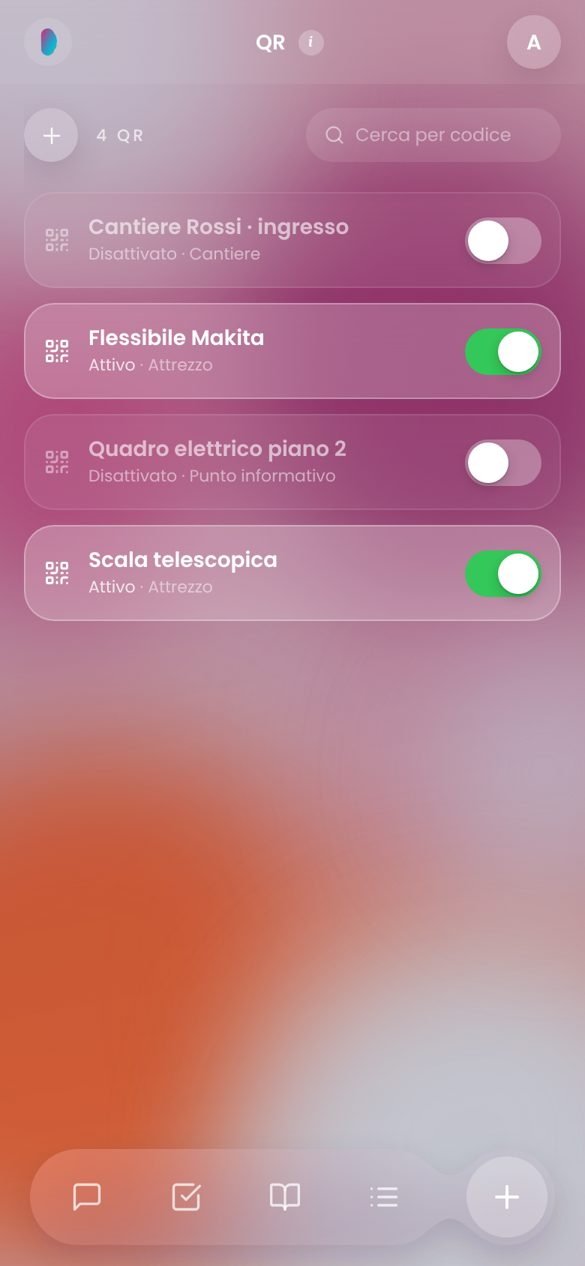
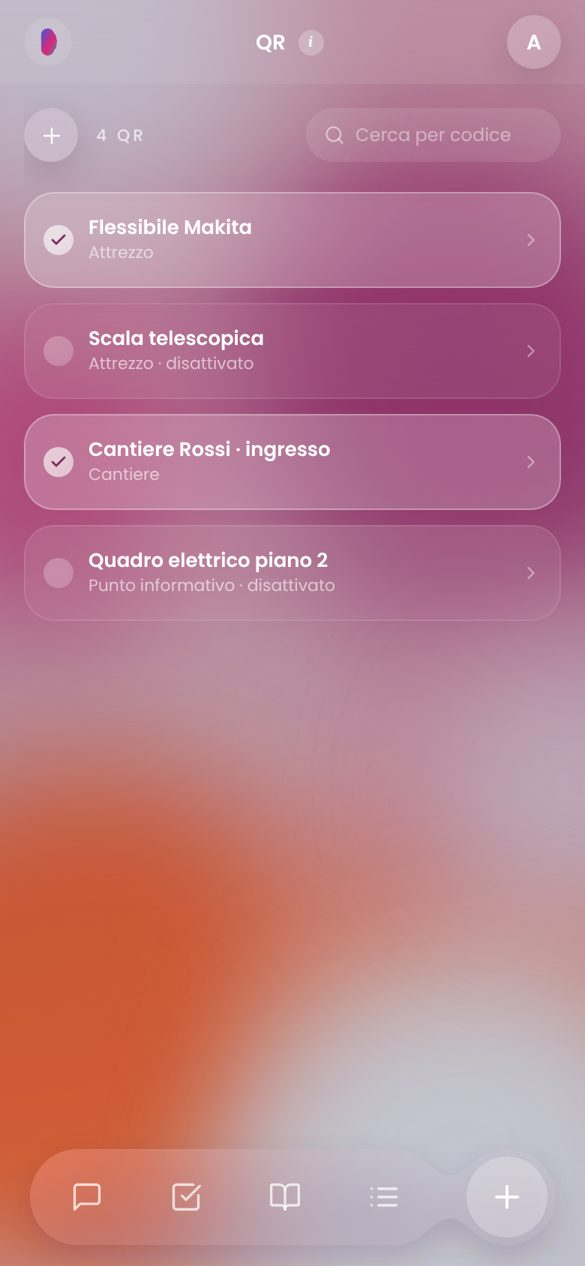
QR: attivo / disattivato con il pallino delle Azioni, nell'elenco e nel dettaglio
- Nuovo componente ActiveDot (il pallino delle liste), usato da Azioni e QR.
- Elenco QR come le Azioni: il pallino a sinistra della riga (spunta = attivo) lo attiva o
  disattiva; i disattivati scuri con "disattivato"; il resto della riga apre il QR.
- Dettaglio: al posto dell'interruttore il pallino, in un cerchio come gli altri tasti
  (tutto il cerchio è toccabile).
- Guida, FRONTEND.md e schermate aggiornate.

Claude-Session: https://claude.ai/code/session_01VfbXjVrWkHdaUBWCLnfX7C

Changed region(s): [[0.0308, 0.154, 0.9846, 0.4929], [0.0615, 0.0, 0.0923, 0.0616]]

diff --git a/frontend/src/pages/QrPage.jsx b/frontend/src/pages/QrPage.jsx
@@ -6,7 +6,7 @@ import { api, API } from "@/lib/api";
 import { useAuth } from "@/auth/AuthContext";
 import { phonePosition } from "@/pages/QrScanPage";
 import { Field, Input, Select, PRIMARY, SECONDARY, GroupTitle } from "@/components/FormFields";
-import IosSwitch from "@/components/IosSwitch";
+import ActiveDot from "@/components/ActiveDot";
 import GlassBottomSheet from "@/components/GlassBottomSheet";
 import { StatTiles, StatTile } from "@/components/StatTiles";
 
@@ -34,26 +34,29 @@ const CHANGED = { tool_item_id: "attrezzo", ar: "realtà aumentata", place: "luo
 // bottom bar under the finger and swallow the tap (see "Crea QR").
 const keepFocus = (e) => e.preventDefault();
 
-// a QR in the list: one row, with its switch on the right - on, the row lit and "Attivo"; off, dimmed and "Disattivato".
-// The switch turns it on or off from here; a tap on the rest of the row opens it.
+// on / off, as in Azioni: the lists' dot, lit with the check when the QR is active
+const QrDot = ({ title, ...p }) => (
+  <ActiveDot {...p} onTitle="Attivo: tocca per disattivarlo" offTitle="Disattivato: tocca per riattivarlo"
+    onLabel={`Disattiva ${title || "il QR"}`} offLabel={`Riattiva ${title || "il QR"}`} />
+);
+
+// a QR in the list, as an action of Azioni: the dot (active / off) on the left, the name and its kind; the active
+// ones lit, the turned-off ones dim; a tap on the row opens it
 function QrTile({ q, onOpen, onToggle }) {
   const [busy, setBusy] = useState(false);
   const toggle = async (on) => { setBusy(true); try { await onToggle(on); } finally { setBusy(false); } };
   return (
-    <div data-testid="qr-tile" data-active={q.active ? "true" : "false"}
-      className={`w-full rounded-[20px] pl-3 pr-3 h-[64px] flex items-center gap-3 backdrop-blur-xl transition-colors ${q.active ? "bg-white/[0.22] border border-white/30" : "bg-white/[0.07] border border-white/10"}`}>
-      <button type="button" onClick={onOpen} className="flex-1 min-w-0 h-full flex items-center gap-3 text-left" aria-label={`Apri ${q.title}`}>
-        <QrCode size={18} className={`shrink-0 ${q.active ? "text-white" : "text-white/45"}`} />
-        <span className="flex-1 min-w-0">
-          <span className={`block text-[14px] font-semibold leading-tight truncate ${q.active ? "text-white" : "text-white/60"}`} data-testid="qr-tile-title">{q.title}</span>
-          <span className="block text-[11px] leading-tight mt-0.5 truncate">
-            <span className={q.active ? "text-white/80" : "text-white/50"} data-testid="qr-tile-state">{q.active ? "Attivo" : "Disattivato"}</span>
-            <span className="text-white/50"> · {q.kind_label}</span>
-          </span>
+    <div role="button" tabIndex={0} data-testid="qr-tile" data-active={q.active ? "true" : "false"} onClick={onOpen}
+      onKeyDown={(e) => { if (e.key === "Enter") onOpen(); }}
+      className={`w-full text-left rounded-[20px] px-3 h-[64px] flex items-center gap-2.5 backdrop-blur-xl transition-colors cursor-pointer ${q.active ? "bg-white/[0.22] border border-white/30" : "bg-white/[0.07] border border-white/10"}`}>
+      <QrDot on={!!q.active} busy={busy} onToggle={toggle} title={q.title} testid="qr-tile-switch" />
+      <span className="flex-1 min-w-0">
+        <span className="block text-[13px] font-semibold text-white leading-tight whitespace-nowrap overflow-hidden text-ellipsis" data-testid="qr-tile-title">{q.title}</span>
+        <span className="block text-[11px] text-white/60 leading-tight mt-0.5 whitespace-nowrap overflow-hidden text-ellipsis" data-testid="qr-tile-state">
+          {q.kind_label}{q.active ? "" : " · disattivato"}
         </span>
-      </button>
-      <IosSwitch checked={!!q.active} onChange={toggle} disabled={busy} testid="qr-tile-switch"
-        label={q.active ? `${q.title}: attivo, tocca per disattivarlo` : `${q.title}: disattivato, tocca per riattivarlo`} />
+      </span>
+      <ChevronRight size={14} className="shrink-0 text-white/45" />
     </div>
   );
 }
@@ -434,7 +437,10 @@ function QrDetail({ id, commesse, onChanged, onDeleted, onBack }) {
 
       {/* one row: on/off, print, download, share the link - and, apart, new code and delete */}
       <div className="mt-2 flex items-center justify-center gap-2.5" data-testid="qr-actions">
-        <IosSwitch checked={!!q.active} onChange={setActive} disabled={busy} label={q.active ? "Attivo: tocca per disattivarlo" : "Disattivato: tocca per riattivarlo"} testid="qr-toggle-active" />
+        <span className={`${ROUND} bg-white/15 cursor-pointer`} data-testid="qr-active" data-active={q.active ? "true" : "false"}
+          onClick={() => !busy && setActive(!q.active)}>
+          <QrDot on={!!q.active} busy={busy} onToggle={setActive} title={q.title} testid="qr-toggle-active" />
+        </span>
         <button type="button" onClick={() => setPrinting(true)} data-testid="qr-print" title="Stampa l'etichetta" aria-label="Stampa l'etichetta"
           className={`${ROUND} bg-white/15 text-white`}><Printer size={18} /></button>
         <a href={q.images.png} download={`QR-${q.code_label}.png`} data-testid="qr-download" title="Scarica il PNG" aria-label="Scarica il PNG"

diff --git a/frontend/src/pages/ActionsPage.jsx b/frontend/src/pages/ActionsPage.jsx
@@ -1,8 +1,9 @@
 import React, { useEffect, useState } from "react";
 import { useNavigate, useSearchParams } from "react-router-dom";
 import { toast } from "sonner";
-import { Repeat, Plus, Play, Trash2, List, BarChart3, Bell, CheckSquare, Send, Smartphone, Loader2, ChevronDown, ChevronRight, Newspaper, ArrowLeft, Check } from "lucide-react";
+import { Repeat, Plus, Play, Trash2, List, BarChart3, Bell, CheckSquare, Send, Smartphone, Loader2, ChevronDown, ChevronRight, Newspaper, ArrowLeft } from "lucide-react";
 import { api } from "@/lib/api";
+import SharedDot from "@/components/ActiveDot";
 
 const ACCENT = "#3E7C8C"; // same color as the "Azioni programmate" button in the chat
 
@@ -30,19 +31,10 @@ const renderTelegramText = (text) => String(text || "").split(/(\*[^*\n]+\*)/g).
 );
 
 // The lists' selection dot (Liste, Spesa...): here it turns the action on and off.
-function ActiveDot({ on, busy, onToggle, testid }) {
-  return (
-    <button type="button" data-testid={testid} disabled={busy} aria-pressed={!!on}
-      onClick={(e) => { e.stopPropagation(); onToggle(!on); }}
-      title={on ? "Attiva: tocca per metterla in pausa" : "In pausa: tocca per riattivarla"}
-      aria-label={on ? "Metti in pausa l'azione" : "Riattiva l'azione"}
-      className="h-8 w-8 -m-1.5 shrink-0 flex items-center justify-center disabled:opacity-60">
-      <span className={`h-5 w-5 rounded-full flex items-center justify-center backdrop-blur-md transition-colors ${on ? "bg-white/55 text-[#7A2A5C]" : "bg-white/20"}`}>
-        {on && <Check size={12} strokeWidth={2.8} />}
-      </span>
-    </button>
-  );
-}
+const ActiveDot = (p) => (
+  <SharedDot {...p} onTitle="Attiva: tocca per metterla in pausa" offTitle="In pausa: tocca per riattivarla"
+    onLabel="Metti in pausa l'azione" offLabel="Riattiva l'azione" />
+);
 
 // One action in the list: like a tile of Impostazioni, one per row - the dot (on / paused),
 // the title on one line and, in grey, when it repeats; tapping it opens its card.

diff --git a/frontend/src/components/ActiveDot.jsx b/frontend/src/components/ActiveDot.jsx
@@ -1,0 +1,17 @@
+import React from "react";
+import { Check } from "lucide-react";
+
+/* The lists' selection dot (Liste, Spesa...), used to turn something on and off: lit with the check when it is on,
+   a faint circle when it is off (Azioni: active / paused; QR: active / turned off). */
+export default function ActiveDot({ on, busy, onToggle, testid, onTitle, offTitle, onLabel, offLabel }) {
+  return (
+    <button type="button" data-testid={testid} disabled={busy} aria-pressed={!!on}
+      onClick={(e) => { e.stopPropagation(); onToggle(!on); }}
+      title={on ? onTitle : offTitle} aria-label={on ? onLabel : offLabel}
+      className="h-8 w-8 -m-1.5 shrink-0 flex items-center justify-center disabled:opacity-60">
+      <span className={`h-5 w-5 rounded-full flex items-center justify-center backdrop-blur-md transition-colors ${on ? "bg-white/55 text-[#7A2A5C]" : "bg-white/20"}`}>
+        {on && <Check size={12} strokeWidth={2.8} />}
+      </span>
+    </button>
+  );
+}

diff --git a/backend/help/mAIPAL-help.md b/backend/help/mAIPAL-help.md
@@ -517,8 +517,8 @@ Documenti è la tua **base di conoscenza**: tutto quello che hai caricato con Sa
 I **QR** sono etichette da attaccare in cantiere, su un attrezzo o in un punto (quadro elettrico, locale caldaia). Scansionandolo con il telefono si vedono le informazioni che l'amministratore ha scritto: solo chi è nella tua organizzazione (QR privato) oppure chiunque lo scansioni (QR pubblico).
 - **Chi li gestisce**: la sezione QR la vede solo l'amministratore. Gli altri del team aprono il QR scansionandolo.
 - **Crearne uno**: tocca **+**, dai un nome ("Cantiere Rossi · ingresso", "Trapano Hilti 2"), scegli il tipo (Cantiere, Attrezzo, Punto informativo, Altro), la commessa se c'è, il testo da mostrare (referente, accessi, avvisi) e i link utili (planimetrie, schede, cartella Drive).
-- **L'elenco dei QR**: una riga per QR, con sotto il nome **Attivo** o **Disattivato** e il tipo; quelli attivi sono chiari e in evidenza, quelli disattivati più scuri. L'**interruttore** a destra della riga lo attiva o disattiva subito, senza aprirlo; toccando il resto della riga si apre il QR.
-- **La pagina di un QR**: in alto la freccia per tornare e il **nome** del QR; sotto un riquadro con **solo il QR**. Sotto il QR, su una riga: l'**interruttore** (verde = attivo; spento = chi lo scansiona non vede niente finché non lo riaccendi), **stampa**, **scarica** (immagine PNG) e **condividi il link** (WhatsApp, mail…; dove il telefono non lo permette, il link viene copiato); un po' staccati, **genera un nuovo codice** (frecce) ed **elimina** (cestino; chiede conferma). Poi i numeri (**Scansioni**, **Foto e PDF**, **Modifiche**), l'ultima scansione, il **codice** stampato sotto l'etichetta e il tipo; poi **Contenuto**, **Foto e PDF** e **Storico** (chi ha preso l'attrezzo e le modifiche).
+- **L'elenco dei QR**: come le Azioni, una riga per QR con a sinistra il **pallino**: con la spunta è **attivo**, vuoto è **disattivato** (la riga è più scura e sotto il nome c'è scritto «disattivato»). Toccando il pallino lo attivi o disattivi subito, senza aprirlo; toccando il resto della riga si apre il QR.
+- **La pagina di un QR**: in alto la freccia per tornare e il **nome** del QR; sotto un riquadro con **solo il QR**. Sotto il QR, su una riga: il **pallino** come nelle Azioni (con la spunta = attivo; vuoto = disattivato: chi lo scansiona non vede niente finché non lo riattivi), **stampa**, **scarica** (immagine PNG) e **condividi il link** (WhatsApp, mail…; dove il telefono non lo permette, il link viene copiato); un po' staccati, **genera un nuovo codice** (frecce) ed **elimina** (cestino; chiede conferma). Poi i numeri (**Scansioni**, **Foto e PDF**, **Modifiche**), l'ultima scansione, il **codice** stampato sotto l'etichetta e il tipo; poi **Contenuto**, **Foto e PDF** e **Storico** (chi ha preso l'attrezzo e le modifiche).
 - **Cambiare il contenuto**: tocca **Modifica** accanto a «Contenuto»: il modulo si apre lì. L'etichetta stampata resta la stessa: chi la scansiona vede subito il testo nuovo. In **Modifiche** trovi chi ha cambiato cosa e il testo di prima.
 - **QR di un attrezzo**: scegli il tipo **Attrezzo**. Per gli artigiani c'è la lista **Attrezzatura** (in Liste, condivisa con il team, creata da sola: nome, marca e modello, matricola, note, chi ce l'ha e da quando): nel campo **Attrezzo** scegli quello della lista, oppure lascia **Nuovo** e lo aggiungo io alla lista con il nome del QR. Chi scansiona il QR vede se l'attrezzo è **Disponibile** o chi ce l'ha e da quando, e i pulsanti **Prendi** (o **Lo prendo io**, se ce l'ha un collega) e **Restituisci** (chi ce l'ha, oppure un amministratore per chiunque). La lista Attrezzatura si aggiorna da sola (**Ce l'ha**, **Dal**) e nello **Storico** del QR l'amministratore vede chi l'ha preso e restituito.
 - **Solo in un luogo**: in **Dove si apre** scegli **Solo in un luogo**, poi dal menu **Punto** scegli **La mia posizione adesso** (se sei lì), **Il cantiere della commessa** o **Un indirizzo**, e da **Entro** la distanza (50 m, 100 m, 250 m, 500 m, 1 km). Con l'icona accanto alle coordinate riprendi la posizione. Chi scansiona il QR deve trovarsi entro quella distanza: il telefono chiede la posizione e, se è troppo lontano, mostra a che distanza si trova. Vale anche per le foto e i PDF del QR e anche per i QR pubblici (a chi non è dell'organizzazione non viene mostrato il nome del luogo). Gli amministratori lo aprono ovunque, con un avviso. La posizione serve solo a controllare la distanza e non viene salvata (per chi è dell'organizzazione resta solo la distanza). Attenzione: la posizione la dà il telefono e si può falsificare, quindi è un filtro in più, non una serratura: non usarlo come unica protezione per dati riservati.
@@ -530,7 +530,7 @@ I **QR** sono etichette da attaccare in cantiere, su un attrezzo o in un punto (
   - **Solo organizzazione**: chi è nella tua organizzazione, dopo l'accesso a mAIPAL. Per tutti gli altri il QR "non è disponibile", come un codice sbagliato.
   - **Solo amministratori**: per esempio per codici riservati.
 - **Scansionare**: con la fotocamera del telefono. Si apre il **contenuto** del QR, da leggere: il nome, (per un attrezzo) chi ce l'ha con **Prendi** / **Restituisci**, il testo, le foto, i PDF e i link; all'amministratore c'è anche una piccola matita per modificarlo. Un QR privato, se non sei entrato in mAIPAL, ti chiede l'accesso e poi si apre. Se l'etichetta è rovinata, scrivi il codice stampato sotto (es. K7P3-XQ9M-2TRA) nel campo «Cerca per codice» della sezione QR.
-- **Etichetta persa o copiata**: **Nuovo codice** (le frecce in alto) fa smettere di funzionare quella vecchia (il contenuto resta); ristampa quella nuova. Con l'**interruttore** in alto la fermi finché non la riaccendi; il **cestino** la cancella.
+- **Etichetta persa o copiata**: **Nuovo codice** (le frecce in alto) fa smettere di funzionare quella vecchia (il contenuto resta); ristampa quella nuova. Con il **pallino** la fermi finché non la riattivi; il **cestino** la cancella.
 - La **realtà aumentata** per ora è tolta: non funzionava bene. Le impostazioni già salvate restano, ma non si vedono più.
 - Se un QR è collegato a una commessa, chi lo scansiona ha anche il pulsante per aprire il diario di quella commessa.
 

diff --git a/docs/FRONTEND.md b/docs/FRONTEND.md
@@ -300,11 +300,11 @@ Sono dentro la sezione Task (vista To-Do, capitolo 4.3). `TodoFolders.jsx` tiene
 
 <img src="screens/m18-qr.jpg" width="230"> <img src="screens/m19-qr-dettaglio.jpg" width="230"> <img src="screens/d06-qr.jpg" width="460">
 
-- **Elenco**: «+» per un nuovo QR, il conteggio e il campo **«Cerca per codice»**; una riga per QR (attivo: `bg-white/[0.22]` e «Attivo»; disattivato: scuro e «Disattivato») con l'`IosSwitch` a destra che lo attiva o disattiva dall'elenco (`PATCH /qr/{id}` `{active}`).
+- **Elenco**: «+» per un nuovo QR, il conteggio e il campo **«Cerca per codice»**; una riga per QR come le Azioni: a sinistra `ActiveDot` (il pallino delle liste, lo stesso delle Azioni: con la spunta = attivo) che lo attiva o disattiva dall'elenco (`PATCH /qr/{id}` `{active}`); i disattivati scuri, con «disattivato».
 - **Un QR**:
   - in alto la freccia e il nome del QR;
   - un riquadro con solo il QR (attenuato se disattivato);
-  - una riga di comandi: interruttore Attivo (`IosSwitch`), stampa (apre `PrintSheet`, il lato 3/5/8 cm), scarica PNG, condividi il link (`navigator.share`, altrimenti copia); dopo un separatore, nuovo codice ed elimina (stesso fondo degli altri; chiede conferma);
+  - una riga di comandi: il pallino `ActiveDot` in un cerchio come gli altri tasti, stampa (apre `PrintSheet`, il lato 3/5/8 cm), scarica PNG, condividi il link (`navigator.share`, altrimenti copia); dopo un separatore, nuovo codice ed elimina (stesso fondo degli altri; chiede conferma);
   - gli indicatori Scansioni / Foto e PDF / Modifiche, ultima scansione, codice e tipo;
   - sotto: Contenuto (con «Modifica» accanto al titolo; per un attrezzo: chi ce l'ha), Foto e PDF, Storico (chi ha preso l'attrezzo, le modifiche).
 - **Nuovo / modifica**: per il tipo Attrezzo c'è il campo **Attrezzo** (`GET /qr/tools`: la lista Attrezzatura); «Nuovo» lo aggiunge alla lista con il nome del QR.
